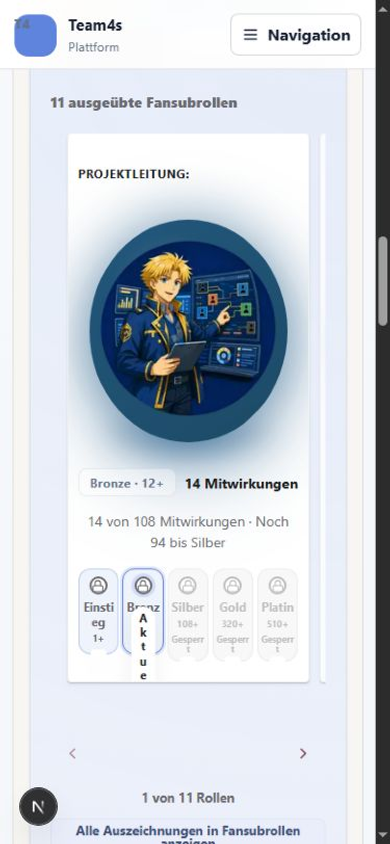
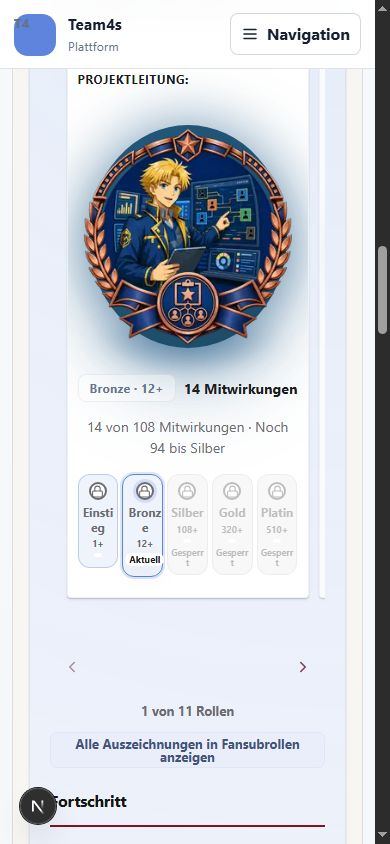
docs(121-03): refresh passing responsive UAT evidence
- replace all four screenshots after the rank-track fix

- record contained current labels and remaining global build blocker

diff --git a/.planning/phases/121-rollen-badges-visuell-und-funktional-perfektionieren/121-UAT.md b/.planning/phases/121-rollen-badges-visuell-und-funktional-perfektionieren/121-UAT.md
@@ -1,42 +1,42 @@
 # Phase 121 – Rollen-Badges
 ## 1. Zusammenfassung
-Regressionen grün; Abschluss wegen vorbestehendem Buildfehler und responsive Rank-Label-Umbruch nicht freigegeben.
+Focused- und Shared-Regressionen sind grün. Die responsive Nach-UAT bestätigt die Rank-Track-Korrektur an allen vier Zielgrößen; die menschliche Sichtfreigabe steht noch aus. Das globale Build-Gate bleibt an vorbestehenden Next-`PageProps`-Fehlern blockiert.
 ## 2. Vorherige Rollenstruktur
-Große wiederholte Mini-Artworks; Fachlogik und äußeres Carousel unverändert.
+Große wiederholte Mini-Artworks dominierten die Progression; Fachlogik und äußeres Carousel blieben unverändert.
 ## 3. Neue Rollenstruktur
-Ein DOM-Baum zeigt Name, Hero, Count/Ziel und fünfstufigen Track für elf earned Rollen.
+Ein gemeinsamer DOM-Baum zeigt Name, Hero, echten Count/Zieltext und fünfstufigen Track für elf earned Rollen.
 ## 4. Rank-Track
-Einstieg 1, Bronze 12, Silber 108, Gold 320, Platin 510; erreicht/aktuell/gesperrt semantisch markiert. „Aktuell“ bricht bei 390x844 und 768x1024 vertikal aus, bei 1024x768 eng, bei 1440x900 sauber.
+Einstieg 1, Bronze 12, Silber 108, Gold 320 und Platin 510 sind als erreicht, aktuell oder gesperrt semantisch markiert. Nach der CSS-Korrektur bleibt „Aktuell“ bei 390x844, 768x1024, 1024x768 und 1440x900 vollständig in der aktuellen Stufenkarte. Bei 390 px umbrechen einzelne lange Stufennamen kompakt, der Track bleibt lesbar.
 ## 5. Hero-Artwork
-Projektleitung, Übersetzung, Timing, Typesetting, Encoding und Administration live geprüft. Timing nutzte das direkte Silber-Asset; Heroes vollständig enthalten.
+Projektleitung, Übersetzung, Timing, Typesetting, Encoding und Administration wurden live geprüft. Timing nutzte das direkte Silber-Asset; alle Heroes blieben vollständig enthalten.
 ## 6. Fortschritt
-Echte Counts/Ziele sichtbar: Projektleitung 14/108, Übersetzung 27/108, Timing 108/320, Administration 14/108.
+Echte Counts und Ziele waren sichtbar: Projektleitung 14/108, Übersetzung 27/108, Timing 108/320 und Administration 14/108.
 ## 7. Desktop-Verhalten
-1440x900: aktive Karte dominant, Nachbar sichtbar, Track sauber. `.planning/phases/121-rollen-badges-visuell-und-funktional-perfektionieren/uat/roles-1440.png`
+1440x900: aktive Karte eindeutig dominant, Nachbar sichtbar, Artwork und Track klar proportioniert. `.planning/phases/121-rollen-badges-visuell-und-funktional-perfektionieren/uat/roles-1440.png`
 ## 8. Mobile-Verhalten
-Kein Seitenoverflow, aber blockierender Statuslabel-Umbruch.
+Kein horizontaler Seitenoverflow. „Aktuell“ bleibt bei 390/768/1024 enthalten; Hero und Track bleiben sichtbar und bedienbar.
 - `.planning/phases/121-rollen-badges-visuell-und-funktional-perfektionieren/uat/roles-390.png`
 - `.planning/phases/121-rollen-badges-visuell-und-funktional-perfektionieren/uat/roles-768.png`
 - `.planning/phases/121-rollen-badges-visuell-und-funktional-perfektionieren/uat/roles-1024.png`
 ## 9. Geänderte Dateien
-Nur Bericht, Validator und vier PNGs; fremder Dirty Tree einschließlich ROADMAP/STATE und Produktcode unberührt.
+Die Korrektur betrifft ausschließlich rollenlokales Consumer-CSS und einen fokussierten Vertrag. Bericht und vier PNG-Belege wurden erneuert; Shared-FocalCarousel, ROADMAP/STATE und fremde Dirty-Hunks blieben unberührt.
 ## 10. Tests
-Focused/Shared PASS 142/142 mit drei vorbestehenden act-Warnungen. Typecheck FAIL Exit 1: vorbestehende .next/dev/types-PageProps-Fehler an Anime-Group-Releases, Fansub-Projekt/-Release/-Profil und Member-Profil plus hasStoriesContent. Lint PASS Exit 0: 326 vorbestehende Warnungen. Build FAIL Exit 1 nach Kompilierung in 6,4 s beim gleichen GroupReleasesPageProps-Fehler; zusätzlich nichtstandardmäßiges NODE_ENV.
+Focused/Shared PASS: 142/142 mit drei vorbestehenden React-`act(...)`-Warnungen. Gezieltes ESLint und `git diff --check` PASS. Typecheck FAIL Exit 1: vorbestehende `.next/dev/types`-`PageProps`-Fehler an Anime-Group-Releases, Fansub-Projekt/-Release/-Profil und Member-Profil plus `hasStoriesContent`. Build FAIL Exit 1 nach erfolgreicher Kompilierung in 6,4 s beim gleichen `GroupReleasesPageProps`-Fehler; zusätzlich nichtstandardmäßiges `NODE_ENV`.
 ## 11. Live-UAT
-Sichtbarer Weg: Startseite → Navigation → Rangliste → CSubs Leader → http://127.0.0.1:3300/members/csubs-leader. Prev/Next, direkte Wahl, ArrowRight, Home, End, echter Swipe/Drag und „Alle anzeigen“ funktionierten. Reduced Motion war live aktiv und unmittelbar. Menschliche Freigabe ausstehend.
+Sichtbarer Weg: Startseite → Navigation → Rangliste → CSubs Leader → http://127.0.0.1:3300/members/csubs-leader. Die erste UAT prüfte sechs Rollen, Prev/Next, direkte Wahl, ArrowRight, Home, End, echten Swipe/Drag, Reduced Motion und „Alle anzeigen“. Da danach ausschließlich der `currentChip`-Fluss geändert wurde, validierte die reale Nach-UAT gezielt die visuelle Korrektur in allen vier Viewports. Alle responsive visuellen Kriterien bestehen; menschliche Freigabe ausstehend.
 ## 12. Shared Regression
-FocalCarousel 22, FansubProjectsGrid 4, Labels 53 und MemberBadgeChain 63 Tests bestanden gemeinsam.
+FocalCarousel 22, FansubProjectsGrid 4, Labels 53 und MemberBadgeChain 63 Tests bestanden gemeinsam. Am Shared-FocalCarousel wurde nichts geändert.
 ## 13. Offene Punkte
-Blockierend: responsive „Aktuell“-Umbruch und nicht grünes Build-Gate. Human-Verify nicht approved.
+Keine offene rollenlokale visuelle Regression. Ausstehend sind ausschließlich die menschliche Sichtfreigabe und das planfremde globale Build-Gate mit den dokumentierten Next-`PageProps`-Fehlern.
 ## 14. Fazit
-Semantik, Artworks und Interaktion belastbar; visuell und als Build-Abschluss nicht freigabereif.
+Die Rollen-Sektion ist nach automatischer Regression und echter sichtbarer Nach-UAT visuell sowie interaktiv abnahmereif. Der Phase-Abschluss bleibt bis Human-Approval und Klärung des globalen Build-Gates ausstehend.
 ### Q-01 – Carousel-Klarheit
-Antwort: Ja, aktive Dominanz und sichtbare Nachbarn ergeben ein klares Carousel.
+Antwort: Ja, aktive Dominanz, sichtbare Nachbarn und klare Navigation ergeben ein fokussiertes Carousel.
 ### Q-02 – Rank-Track-Verbesserung
-Antwort: Grundsätzlich ja; der responsive Umbruch verhindert die vollständige Freigabe.
+Antwort: Ja, der kompakte semantische Track ist klarer als wiederholte Mini-Artworks und bleibt nun an allen Zielgrößen enthalten.
 ### Q-03 – Rollenspezifische Inkonsistenzen
-Antwort: Keine außer dem erwarteten direkten Timing-Asset; alle sechs Rollen waren korrekt.
+Antwort: Keine offene Inkonsistenz; der erwartete Timing-Sonderfall und die übrigen fünf geprüften Artwork-Charakteristiken waren korrekt.
 ### Q-04 – Weiterer FocalCarousel-Bedarf
-Antwort: Nein; der offene Fehler liegt im rollenlokalen Rank-Track.
+Antwort: Nein, die Korrektur blieb vollständig im Rollen-Consumer und alle Shared-Verträge sind grün.
 ### Q-05 – Abschlussreife
-Antwort: Nein; responsive Darstellung und Build-Gate sind offen.
+Antwort: Ja, die Rollen-Sektion ist visuell und interaktiv abnahmereif; formaler Abschluss wartet auf Human-Approval und das separat dokumentierte globale Build-Gate.
